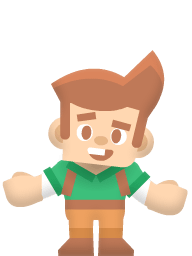
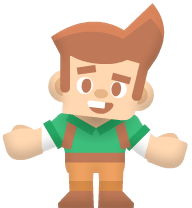
add loop change hero image, adjust title

diff --git a/pages/index.tsx b/pages/index.tsx
@@ -2,7 +2,7 @@ import { Container, Typography, Grid } from '@mui/material';
 import type { NextPage } from 'next'
 import Head from 'next/head'
 import Layout from '../components/Layout';
-import Image from 'next/image'
+import HeroImage from '../components/HeroImage';
 import {HeroSection, JoinButton, GreyText}  from '../styles/Home.styled';
 import Typewriter from 'typewriter-effect';
 
@@ -10,15 +10,15 @@ const Home: NextPage = () => {
   return (
     <Layout>
       <Head>
-        <title>Create Next App</title>
-        <meta name="description" content="Generated by create next app" />
+        <title>Toon Survival</title>
+        <meta name="description" content="Toon Survival NFT" />
       </Head>
       <HeroSection>
         <Container>
           <Grid container alignItems="center">
             {/* Image for mobile */}
             <Grid item xs={12} md={6} textAlign={"center"} sx={{ display: { xs: 'block', md: 'none', lg: 'none' } }}>
-              <Image src="/images/male1_wide.png" alt="Male survival" width="256" height="384" />
+              <HeroImage width={256} height={264}/>
             </Grid>
             <Grid item xs={12} md={6} sx={{textAlign: {xs: 'center', md: 'left'}}}>
               <Typography variant="h2" component="h2" sx={{fontSize: {lg: 45, md: 39, xs: 33}}}>
@@ -44,7 +44,7 @@ const Home: NextPage = () => {
 
             {/* Image for desktop */}
             <Grid item xs={12} md={6}	textAlign={"center"} sx={{ display: { xs: 'none', md: 'block', lg: 'block' } }}>
-              <Image src="/images/male1_wide.png" alt="Male survival" width="384" height="512" />
+              <HeroImage width={384} height={392} />
             </Grid>
           </Grid>
         </Container>

diff --git a/components/HeroImage.tsx b/components/HeroImage.tsx
@@ -1,0 +1,38 @@
+import Image from 'next/image'
+import {useEffect, useState} from 'react';
+import { clearInterval } from 'timers';
+
+interface HeroImageProps {
+    width: number;
+    height: number;
+}
+
+const HeroImage = ({width, height}: HeroImageProps) => {
+    const backgrounds = [
+        'male1_wide.png',
+        'female1_behindback.png',
+        'zombie1_hold.png',
+        'male2_think.png',
+        'female2_cheer.png',
+        'robot1_hit.png'
+    ];
+    const [backgroundIndex, setBackgroundIndex] = useState(0);
+
+    useEffect(() => {
+        const changeImageInterval = setInterval(() => {
+            setBackgroundIndex(index => (index + 1) % backgrounds.length)
+        }, 1000);
+
+        return () => clearInterval(changeImageInterval);
+    }, []);
+
+    return (
+        <Image
+            src={`/images/${backgrounds[backgroundIndex]}`}
+            alt="Hero image"
+            width={width}
+            height={height} />
+    )
+}
+
+export default HeroImage;

diff --git a/styles/Home.styled.tsx b/styles/Home.styled.tsx
@@ -6,6 +6,8 @@ const HeroSection = styled.section`
     width: 100%;
     flex: 1;
     display: flex;
+    position: relative;
+    align-items: center;
 `
 
 const JoinButton =  styled(Button)`
